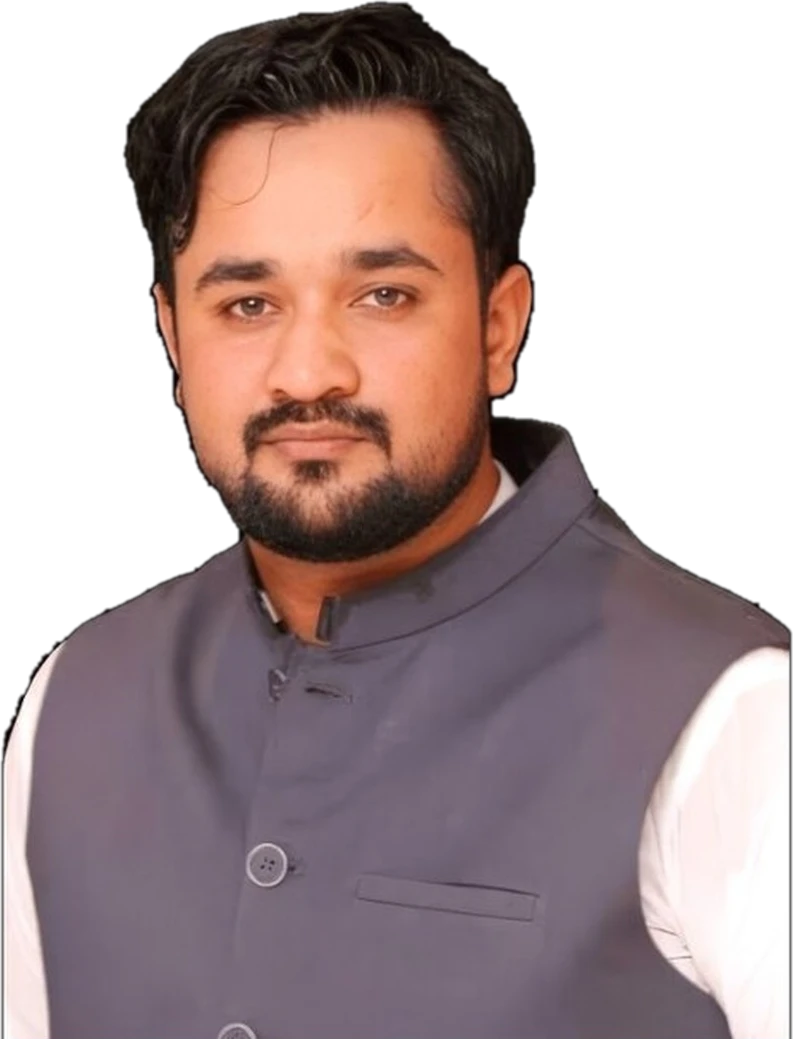
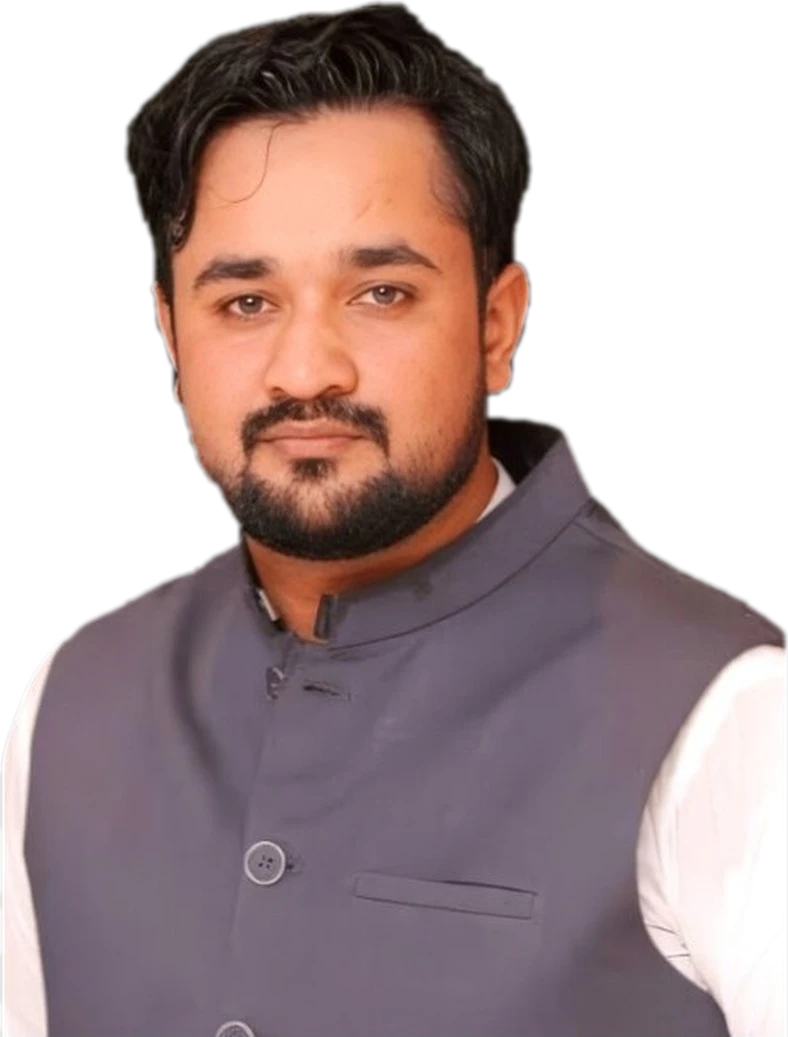
Tighten cover spacing and clean portrait edges for light mode
- Cover sizes to its content; portrait starts higher and fills the masthead area
- Re-cut portrait with eroded mask to remove the dark fringe from the original black background
- Soft side fade hides the straight sleeve edges of the source photo

diff --git a/css/styles.css b/css/styles.css
@@ -200,10 +200,10 @@ em { font-style: italic; }
 .cover-inner {
   --mast: min(20.4vw, 262px);
   position: relative;
-  min-height: clamp(680px, calc(100svh - 66px), 980px);
+  min-height: min(calc(100svh - 66px), 860px);
   display: grid;
   grid-template-columns: minmax(0, 1fr) minmax(0, 1.5fr) minmax(0, 1fr);
-  grid-template-rows: auto auto 1fr auto;
+  grid-template-rows: auto auto auto 1fr;
   column-gap: 24px;
 }
 .cover-meta {
@@ -243,7 +243,7 @@ em { font-style: italic; }
   position: absolute;
   z-index: 2;
   left: 50%;
-  top: calc(40px + var(--mast) * 0.34);
+  top: calc(36px + var(--mast) * 0.12);
   bottom: 0;
   margin: 0;
   transform: translateX(-50%);
@@ -255,12 +255,14 @@ em { font-style: italic; }
   max-width: 46vw;
   object-fit: contain;
   object-position: 50% 0;
-  -webkit-mask-image: linear-gradient(to bottom, #000 72%, transparent 99%);
-  mask-image: linear-gradient(to bottom, #000 72%, transparent 99%);
+  -webkit-mask-image: linear-gradient(to bottom, #000 74%, transparent 99%), linear-gradient(to right, transparent 0, #000 13%, #000 87%, transparent 100%);
+  -webkit-mask-composite: source-in;
+  mask-image: linear-gradient(to bottom, #000 74%, transparent 99%), linear-gradient(to right, transparent 0, #000 13%, #000 87%, transparent 100%);
+  mask-composite: intersect;
 }
 @keyframes rise { from { opacity: 0; transform: translate(-50%, 40px); } }
 
-.cover-lines { position: relative; z-index: 3; grid-row: 3; align-self: center; display: grid; align-content: center; gap: 26px; padding: 28px 0; animation: fade 1.2s 0.6s var(--ease) both; }
+.cover-lines { position: relative; z-index: 3; grid-row: 3; align-self: start; display: grid; align-content: start; gap: 22px; padding: 26px 0 18px; animation: fade 1.2s 0.6s var(--ease) both; }
 .cover-left { grid-column: 1; max-width: 320px; }
 .cover-right { grid-column: 3; justify-self: end; max-width: 320px; text-align: right; }
 @keyframes fade { from { opacity: 0; transform: translateY(14px); } }
@@ -275,7 +277,8 @@ em { font-style: italic; }
   z-index: 3;
   grid-column: 1 / -1;
   grid-row: 4;
-  padding-bottom: 28px;
+  align-self: end;
+  padding-bottom: 26px;
   display: flex;
   justify-content: space-between;
   align-items: flex-end;

diff --git a/index.html b/index.html
@@ -62,7 +62,7 @@
   <link rel="preload" href="https://fonts.googleapis.com/css2?family=Archivo:wdth,wght@62..125,300..900&family=Bodoni+Moda:ital,opsz,wght@0,6..96,400..900;1,6..96,400..900&family=Geist+Mono:wght@400..600&display=swap" as="style" />
   <link href="https://fonts.googleapis.com/css2?family=Archivo:wdth,wght@62..125,300..900&family=Bodoni+Moda:ital,opsz,wght@0,6..96,400..900;1,6..96,400..900&family=Geist+Mono:wght@400..600&display=swap" rel="stylesheet" />
 
-  <link rel="stylesheet" href="/css/styles.css?v=20261013c" />
+  <link rel="stylesheet" href="/css/styles.css?v=20261013d" />
 
   <script type="application/ld+json">
   {

diff --git a/ar/ai-agent-developer/index.html b/ar/ai-agent-developer/index.html
@@ -42,7 +42,7 @@
   <link rel="preconnect" href="https://fonts.googleapis.com" />
   <link rel="preconnect" href="https://fonts.gstatic.com" crossorigin />
   <link href="https://fonts.googleapis.com/css2?family=Archivo:wdth,wght@62..125,300..900&family=Bodoni+Moda:ital,opsz,wght@0,6..96,400..900;1,6..96,400..900&family=Geist+Mono:wght@400..600&family=IBM+Plex+Sans+Arabic:wght@300;400;500;600;700&display=swap" rel="stylesheet" />
-  <link rel="stylesheet" href="/css/styles.css?v=20261013c" />
+  <link rel="stylesheet" href="/css/styles.css?v=20261013d" />
   <script type="application/ld+json">
 {
   "@context": "https://schema.org",

diff --git a/ar/index.html b/ar/index.html
@@ -42,7 +42,7 @@
   <link rel="preconnect" href="https://fonts.googleapis.com" />
   <link rel="preconnect" href="https://fonts.gstatic.com" crossorigin />
   <link href="https://fonts.googleapis.com/css2?family=Archivo:wdth,wght@62..125,300..900&family=Bodoni+Moda:ital,opsz,wght@0,6..96,400..900;1,6..96,400..900&family=Geist+Mono:wght@400..600&family=IBM+Plex+Sans+Arabic:wght@300;400;500;600;700&display=swap" rel="stylesheet" />
-  <link rel="stylesheet" href="/css/styles.css?v=20261013c" />
+  <link rel="stylesheet" href="/css/styles.css?v=20261013d" />
   <script type="application/ld+json">
 {
   "@context": "https://schema.org",

diff --git a/ar/laravel-developer/index.html b/ar/laravel-developer/index.html
@@ -42,7 +42,7 @@
   <link rel="preconnect" href="https://fonts.googleapis.com" />
   <link rel="preconnect" href="https://fonts.gstatic.com" crossorigin />
   <link href="https://fonts.googleapis.com/css2?family=Archivo:wdth,wght@62..125,300..900&family=Bodoni+Moda:ital,opsz,wght@0,6..96,400..900;1,6..96,400..900&family=Geist+Mono:wght@400..600&family=IBM+Plex+Sans+Arabic:wght@300;400;500;600;700&display=swap" rel="stylesheet" />
-  <link rel="stylesheet" href="/css/styles.css?v=20261013c" />
+  <link rel="stylesheet" href="/css/styles.css?v=20261013d" />
   <script type="application/ld+json">
 {
   "@context": "https://schema.org",

diff --git a/ar/moyasar-payment-integration/index.html b/ar/moyasar-payment-integration/index.html
@@ -42,7 +42,7 @@
   <link rel="preconnect" href="https://fonts.googleapis.com" />
   <link rel="preconnect" href="https://fonts.gstatic.com" crossorigin />
   <link href="https://fonts.googleapis.com/css2?family=Archivo:wdth,wght@62..125,300..900&family=Bodoni+Moda:ital,opsz,wght@0,6..96,400..900;1,6..96,400..900&family=Geist+Mono:wght@400..600&family=IBM+Plex+Sans+Arabic:wght@300;400;500;600;700&display=swap" rel="stylesheet" />
-  <link rel="stylesheet" href="/css/styles.css?v=20261013c" />
+  <link rel="stylesheet" href="/css/styles.css?v=20261013d" />
   <script type="application/ld+json">
 {
   "@context": "https://schema.org",

diff --git a/ar/nestjs-developer/index.html b/ar/nestjs-developer/index.html
@@ -42,7 +42,7 @@
   <link rel="preconnect" href="https://fonts.googleapis.com" />
   <link rel="preconnect" href="https://fonts.gstatic.com" crossorigin />
   <link href="https://fonts.googleapis.com/css2?family=Archivo:wdth,wght@62..125,300..900&family=Bodoni+Moda:ital,opsz,wght@0,6..96,400..900;1,6..96,400..900&family=Geist+Mono:wght@400..600&family=IBM+Plex+Sans+Arabic:wght@300;400;500;600;700&display=swap" rel="stylesheet" />
-  <link rel="stylesheet" href="/css/styles.css?v=20261013c" />
+  <link rel="stylesheet" href="/css/styles.css?v=20261013d" />
   <script type="application/ld+json">
 {
   "@context": "https://schema.org",

diff --git a/ar/nextjs-react-developer/index.html b/ar/nextjs-react-developer/index.html
@@ -42,7 +42,7 @@
   <link rel="preconnect" href="https://fonts.googleapis.com" />
   <link rel="preconnect" href="https://fonts.gstatic.com" crossorigin />
   <link href="https://fonts.googleapis.com/css2?family=Archivo:wdth,wght@62..125,300..900&family=Bodoni+Moda:ital,opsz,wght@0,6..96,400..900;1,6..96,400..900&family=Geist+Mono:wght@400..600&family=IBM+Plex+Sans+Arabic:wght@300;400;500;600;700&display=swap" rel="stylesheet" />
-  <link rel="stylesheet" href="/css/styles.css?v=20261013c" />
+  <link rel="stylesheet" href="/css/styles.css?v=20261013d" />
   <script type="application/ld+json">
 {
   "@context": "https://schema.org",

diff --git a/ar/zatca-e-invoicing-developer/index.html b/ar/zatca-e-invoicing-developer/index.html
@@ -42,7 +42,7 @@
   <link rel="preconnect" href="https://fonts.googleapis.com" />
   <link rel="preconnect" href="https://fonts.gstatic.com" crossorigin />
   <link href="https://fonts.googleapis.com/css2?family=Archivo:wdth,wght@62..125,300..900&family=Bodoni+Moda:ital,opsz,wght@0,6..96,400..900;1,6..96,400..900&family=Geist+Mono:wght@400..600&family=IBM+Plex+Sans+Arabic:wght@300;400;500;600;700&display=swap" rel="stylesheet" />
-  <link rel="stylesheet" href="/css/styles.css?v=20261013c" />
+  <link rel="stylesheet" href="/css/styles.css?v=20261013d" />
   <script type="application/ld+json">
 {
   "@context": "https://schema.org",

diff --git a/ai-agent-developer/index.html b/ai-agent-developer/index.html
@@ -42,7 +42,7 @@
   <link rel="preconnect" href="https://fonts.googleapis.com" />
   <link rel="preconnect" href="https://fonts.gstatic.com" crossorigin />
   <link href="https://fonts.googleapis.com/css2?family=Archivo:wdth,wght@62..125,300..900&family=Bodoni+Moda:ital,opsz,wght@0,6..96,400..900;1,6..96,400..900&family=Geist+Mono:wght@400..600&display=swap" rel="stylesheet" />
-  <link rel="stylesheet" href="/css/styles.css?v=20261013c" />
+  <link rel="stylesheet" href="/css/styles.css?v=20261013d" />
   <script type="application/ld+json">
 {
   "@context": "https://schema.org",

diff --git a/blog/moyasar-nestjs-integration/index.html b/blog/moyasar-nestjs-integration/index.html
@@ -39,7 +39,7 @@
   <link rel="preconnect" href="https://fonts.googleapis.com" />
   <link rel="preconnect" href="https://fonts.gstatic.com" crossorigin />
   <link href="https://fonts.googleapis.com/css2?family=Archivo:wdth,wght@62..125,300..900&family=Bodoni+Moda:ital,opsz,wght@0,6..96,400..900;1,6..96,400..900&family=Geist+Mono:wght@400..600&display=swap" rel="stylesheet" />
-  <link rel="stylesheet" href="/css/styles.css?v=20261013c" />
+  <link rel="stylesheet" href="/css/styles.css?v=20261013d" />
   <script type="application/ld+json">
 {
   "@context": "https://schema.org",

diff --git a/laravel-developer/index.html b/laravel-developer/index.html
@@ -42,7 +42,7 @@
   <link rel="preconnect" href="https://fonts.googleapis.com" />
   <link rel="preconnect" href="https://fonts.gstatic.com" crossorigin />
   <link href="https://fonts.googleapis.com/css2?family=Archivo:wdth,wght@62..125,300..900&family=Bodoni+Moda:ital,opsz,wght@0,6..96,400..900;1,6..96,400..900&family=Geist+Mono:wght@400..600&display=swap" rel="stylesheet" />
-  <link rel="stylesheet" href="/css/styles.css?v=20261013c" />
+  <link rel="stylesheet" href="/css/styles.css?v=20261013d" />
   <script type="application/ld+json">
 {
   "@context": "https://schema.org",
